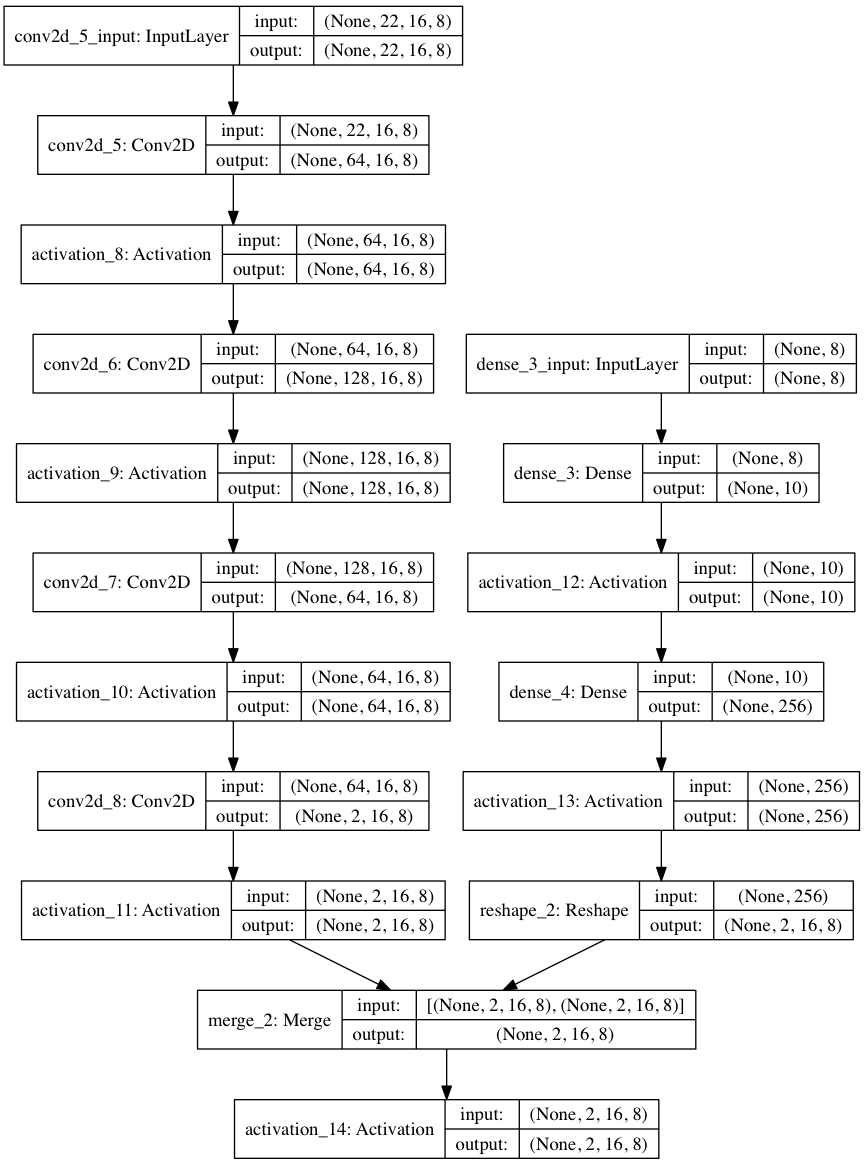
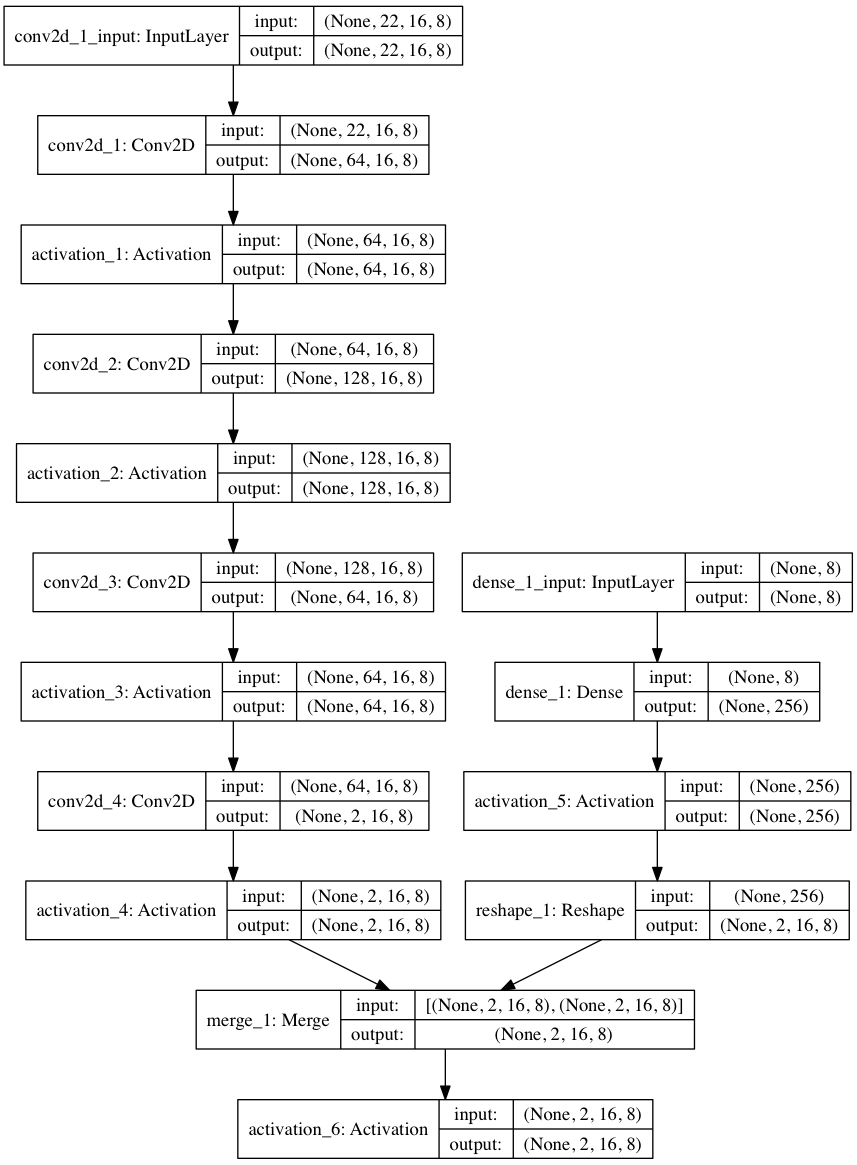
change CNN on metatata

diff --git a/deepst/models/STConvolution.py b/deepst/models/STConvolution.py
@@ -59,9 +59,9 @@ def binCNN_CPTM(c_conf=(3, 2, 32, 32), p_conf=(4, 2, 32, 32), t_conf=(4, 2, 32, 
     
     metadata_processor = Sequential()
     # metadata_processor.add(Dense(output_dim=nb_flow * map_height * map_width, input_dim=metadata_dim))
-    metadata_processor.add(Dense(units=10, input_dim=metadata_dim))
-    metadata_processor.add(Activation('relu'))
-    metadata_processor.add(Dense(units=n_flow * map_height * map_width))
+    metadata_processor.add(Dense(units=n_flow * map_height * map_width, input_dim=metadata_dim))
+    #metadata_processor.add(Activation('relu'))
+    #metadata_processor.add(Dense(units=n_flow * map_height * map_width))
     metadata_processor.add(Activation('relu'))
     metadata_processor.add(Reshape((n_flow, map_width, map_height)))
 
